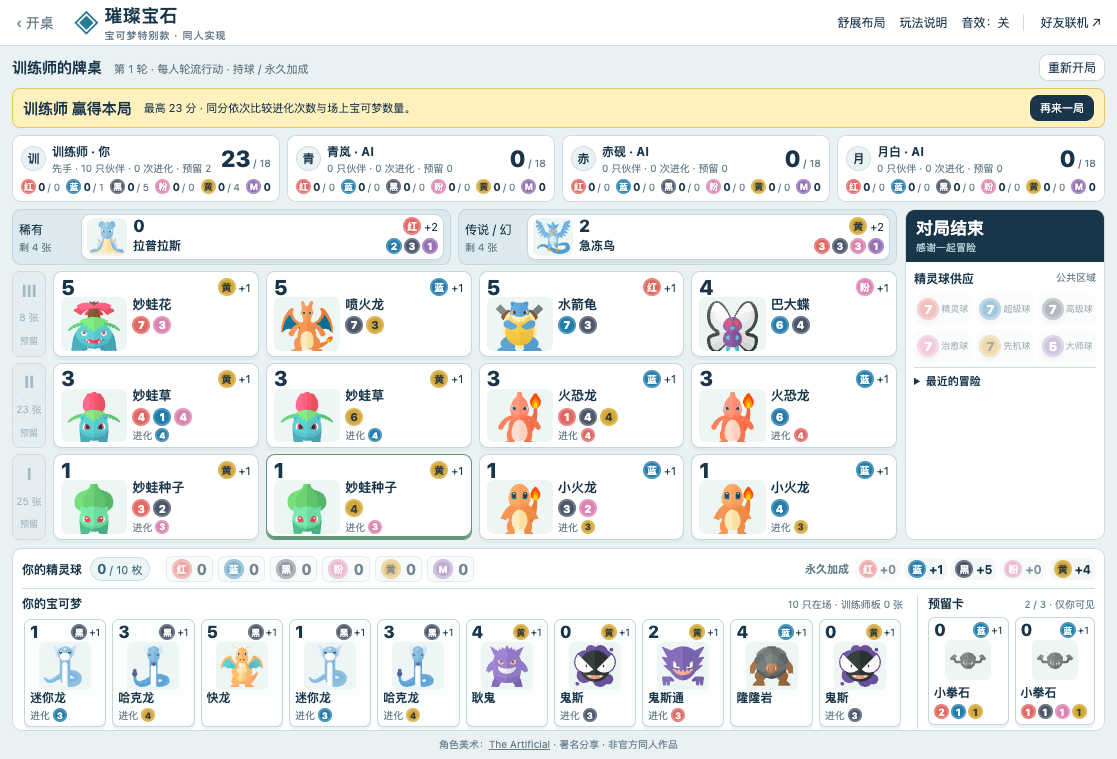
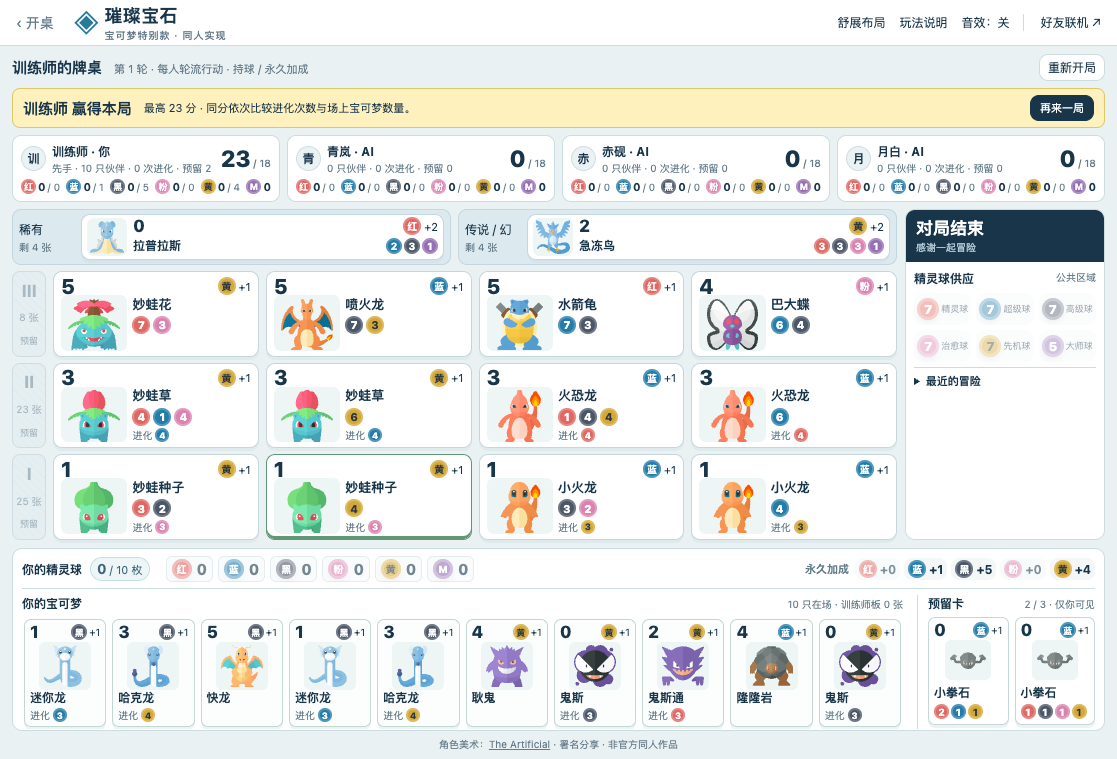
Keep compact table readable in empty and short viewports

diff --git a/games/splendor/web/compact.css b/games/splendor/web/compact.css
@@ -29,7 +29,7 @@
   .compact-table #app .player-name small { font-size: 10px; line-height: 1.2; white-space: nowrap; }
   .compact-table #app .score { font-size: 23px; }
   .compact-table #app .score small { font-size: 10px; }
-  .compact-table #app .player-resources { margin-top: 5px; gap: 5px; flex-wrap: nowrap; justify-content: space-between; }
+  .compact-table #app .player-resources { margin-top: 5px; gap: 5px; flex-wrap: wrap; justify-content: space-between; }
   .compact-table #app .tiny-resource { gap: 2px; }
   .compact-table #app .tiny-resource .ball { height: 15px; min-width: 15px; font-size: 9px; }
   .compact-table #app .tiny-resource b { font-size: 11px; }
@@ -37,7 +37,7 @@
   .compact-table #app .game-layout {
     flex: 1; min-height: 0; display: grid; align-items: stretch; gap: 8px;
     grid-template-columns: minmax(0, 1fr) 200px;
-    grid-template-rows: minmax(260px, 1fr) calc(var(--personal-card-height, 112px) + 71px);
+    grid-template-rows: minmax(326px, 1fr) calc(var(--personal-card-height, 112px) + 71px);
     grid-template-areas: 'market console' 'personal personal';
   }
   .compact-table #app .market { grid-area: market; display: grid; grid-template-rows: 56px repeat(3, minmax(0, 1fr)); gap: 6px; min-height: 0; }
@@ -52,7 +52,7 @@
   .compact-table #app .market .pokemon-card {
     height: 100%; min-height: 0; padding: 5px 7px; border-radius: 9px;
     display: grid; grid-template-columns: minmax(38px, 35%) minmax(0, 1fr);
-    grid-template-rows: 20px minmax(0, 1fr) 18px; column-gap: 5px;
+    grid-template-rows: 18px minmax(0, 1fr) 16px; column-gap: 5px;
   }
   .compact-table #app .market .pokemon-card .card-top { position: static; grid-column: 1 / -1; grid-row: 1; align-items: center; }
   .compact-table #app .market .card-points { font-size: 21px; line-height: 1; }
@@ -127,7 +127,7 @@
   .compact-table #app .inventory-bonus { font-size: 12px; padding: 2px 4px; gap: 3px; }
   .compact-table #app .inventory-bonus .ball { height: 18px; min-width: 18px; font-size: 10px; }
   .compact-table #app .permanent-bonuses > small { display: none; }
-  .compact-table #app .personal-cards { display: grid; grid-template-columns: minmax(0, 1fr) calc(var(--reserved-count) * 86px + (var(--reserved-count) - 1) * 6px); gap: 14px; }
+  .compact-table #app .personal-cards { display: grid; grid-template-columns: minmax(0, 1fr) max(150px, calc(var(--reserved-count) * 86px + (var(--reserved-count) - 1) * 6px)); gap: 14px; }
   .compact-table #app .captured-zone, .compact-table #app .reserved-zone { min-width: 0; }
   .compact-table #app .reserved-zone { border-left: 1px solid var(--line); padding-left: 10px; }
   .compact-table #app .team-list {
@@ -160,6 +160,7 @@
   .compact-table #app .reserved-row .costs { margin-top: 4px; gap: 2px; }
   .compact-table #app .reserved-row .costs .ball { min-width: 15px; height: 15px; font-size: 10px; }
   .compact-table #app .reserved-row .empty-slot { width: auto; height: 108px; text-align: center; padding: 5px; }
+  .compact-table #app .team-list:has(.team-empty) { max-width: none; display: block; }
   .compact-table #app .team-empty { grid-column: 1 / -1; padding: 12px 6px; font-size: 12px; }
   .compact-table #app .finished { display: flex; align-items: center; gap: 12px; padding: 6px 10px; margin: 0; flex-shrink: 0; border-radius: 8px; }
   .compact-table #app .finished .eyebrow { display: none; }

diff --git a/games/splendor/web/ui.js b/games/splendor/web/ui.js
@@ -69,6 +69,7 @@ function syncLayout() {
   document.body.classList.toggle('game-active',Boolean(state));
   document.body.classList.toggle('compact-table',Boolean(state)&&compact);
   document.body.classList.toggle('game-complete',state?.phase==='complete');
+  app.style.minHeight='';
   const toggle=document.querySelector('#layout-mode');
   toggle.hidden=!state;
   toggle.textContent=compact?'舒展布局':'紧凑布局';
@@ -76,6 +77,7 @@ function syncLayout() {
   toggle.setAttribute('aria-label',compact?'当前紧凑布局，切换到舒展布局':'当前舒展布局，切换到紧凑布局');
 }
 function fitCompactLayout() {
+  app.style.minHeight='';
   const zone=app.querySelector('.captured-zone'),list=app.querySelector('.team-list');
   if(!zone||!list||!compact)return;
   const count=list.querySelectorAll('[data-card]').length;
@@ -83,7 +85,16 @@ function fitCompactLayout() {
   const rows=Math.min(2,Math.ceil(count/columns));
   list.style.setProperty('--team-columns',columns);
   list.classList.toggle('two-rows',rows>1);
-  app.style.setProperty('--personal-card-height',rows>1?'162px':'112px');
+  const cardHeight=rows>1?162:112;
+  app.style.setProperty('--personal-card-height',cardHeight+'px');
+  // If a short window cannot fit the table, let the whole page grow. Otherwise
+  // the grid's minimum rows would overflow into the footer and hide card edges.
+  if(matchMedia('(min-width: 900px) and (min-height: 660px)').matches){
+    const styles=getComputedStyle(app),fixed=[...app.children].filter(el=>!el.classList.contains('game-layout'));
+    const chrome=fixed.reduce((sum,el)=>sum+Math.max(el.scrollHeight,el.getBoundingClientRect().height),0)
+      +parseFloat(styles.paddingTop)+parseFloat(styles.paddingBottom)+parseFloat(styles.rowGap)*fixed.length;
+    app.style.minHeight=Math.ceil(chrome+326+8+cardHeight+71)+'px';
+  }
 }
 function render() {
   syncLayout();

diff --git a/docs/pokemon-validation.md b/docs/pokemon-validation.md
@@ -57,6 +57,7 @@
 
 - 1117×759：终局含 10 张已捕捉卡、2 张预留卡；行动、归还及进化阶段含 20 张已捕捉卡、3 张预留卡。四种状态的整页高度均为 759px，14 张展示卡和全部个人卡同时位于可见区，图片正常解码、卡名未截断。
 - 1280×800、1440×900：20 张已捕捉卡和 3 张预留卡无需整页滚动；调整窗口不会清除选中的球。
+- 额外检查空队伍、1 张卡和 1 张预留卡：预留标题可读、开局仍一屏；900×660 短窗口允许页面自然增长，页尾不覆盖个人卡区；大厅缩放保留已输入昵称。
 - 390×844：无页面横向溢出、卡名未截断；队伍使用横向卡带，重绘保留阅读位置。窄屏仍需要纵向浏览，不宣称所有信息塞入手机一屏。
 - 实际点击归还后持球从 11 变为 10；进化阶段结束按钮可滚动到达；详情保持大图，回放可触发并自动清理。切换布局、调整窗口和回放前后的序列化存档完全一致。
 - 内部滚动的动效起终点会检查祖先容器裁切；不可见卡牌使用提示卡落点。独立几何检查覆盖 7 个起点和 2 个飞行落点案例。进化按钮恢复焦点时同时匹配来源与目标卡，防止重绘后跳到另一张同种目标。
